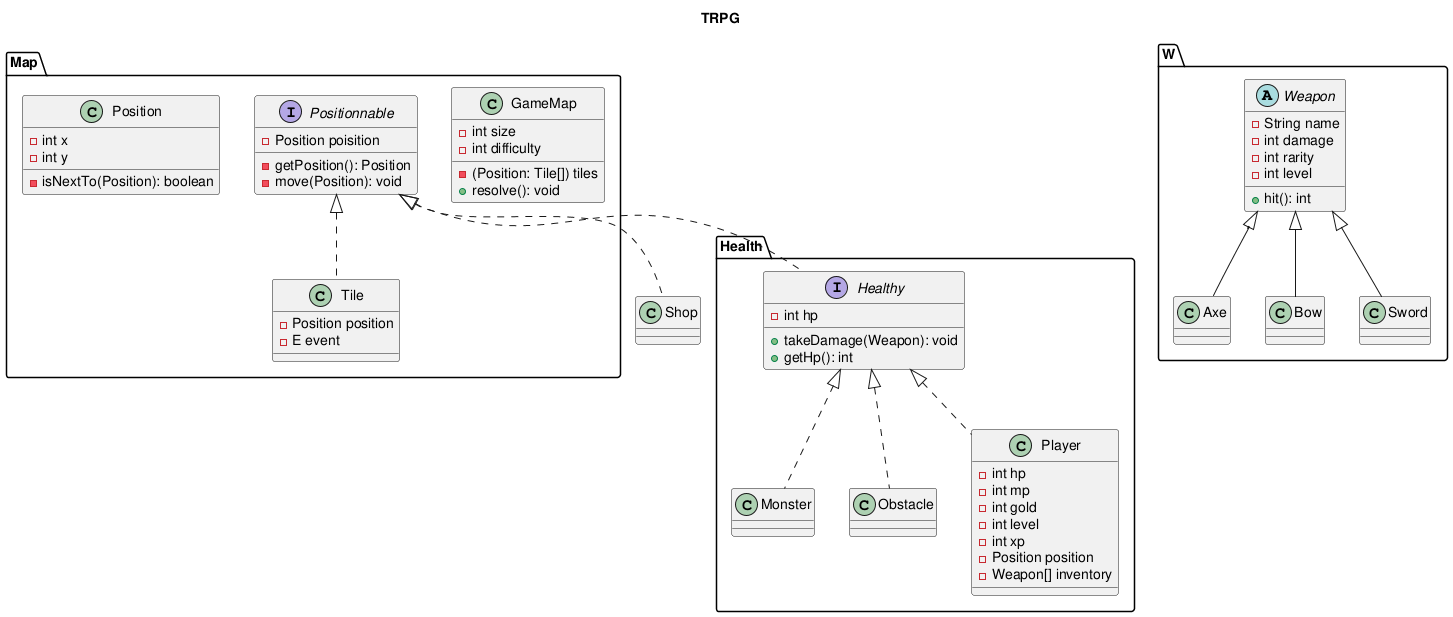
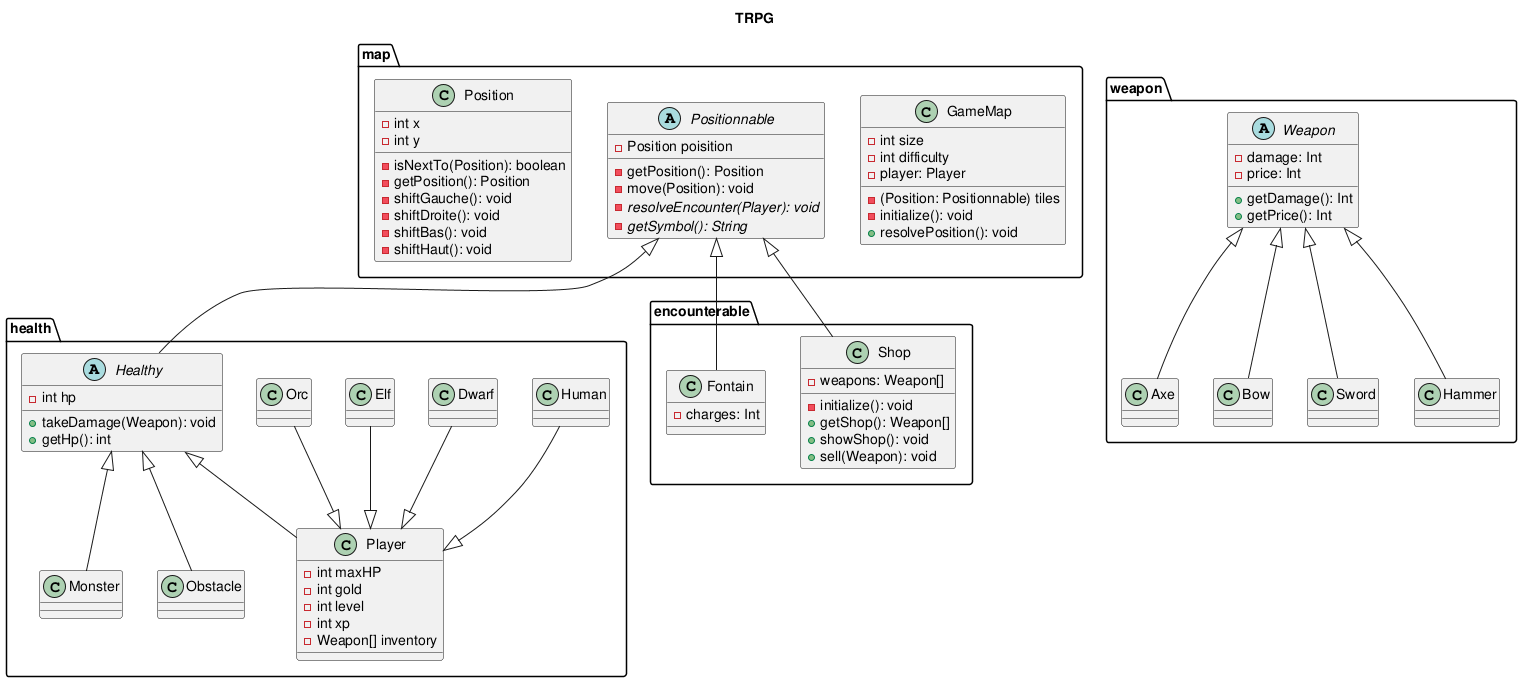
feat: uml fini, readme fini, suppression de Tile non utilisé

diff --git a/src/main/java/trpg/Main.java b/src/main/java/trpg/Main.java
@@ -51,7 +51,7 @@ public class Main {
     while (player.isAlive() && !player.getPosition().equals(new Position(size - 1, size - 1))) {
       Position playerPosition = player.getPosition();
       System.out.println("Où voulez vous aller ?");
-      System.out.println("Gauche: 1, Haut: 2, Droite: 3, Bas: 4, Abandonner: 5");
+      System.out.println("Gauche: 1, Haut: 2, Droite: 3, Bas: 4, Abandonner: 5, Récap personnage: 6");
       int action = Integer.parseInt(scanner.nextLine());
       switch (action) {
         case 1:
@@ -89,6 +89,9 @@ public class Main {
         case 5:
           System.out.println("Abandon ! Fin du jeu");
           return;
+        case 6:
+          player.showInformation();
+          break;
         default:
           System.out.println("Erreur lors du déplacement");
           break;

diff --git a/src/main/java/trpg/Encounterable/Fontain.java b/src/main/java/trpg/Encounterable/Fontain.java
@@ -9,10 +9,13 @@ public class Fontain extends Positionnable {
 
   public Fontain(Position p) {
     super(p);
+    this.charges = 3;
   }
 
   public void resolveEncounter(Player player) {
     player.heal(player.getMissingHP());
+    this.charges--;
+    System.out.println("Vous êtes soigné, il reste " + this.charges + " charges à la fontaine");
   }
 
   public String getSymbol() {

diff --git a/src/main/java/trpg/Encounterable/WeaponStore.java b/src/main/java/trpg/Encounterable/WeaponStore.java
@@ -12,7 +12,6 @@ import trpg.weapon.*;
 public class WeaponStore extends Positionnable {
   private Scanner scanner;
   private ArrayList<Weapon> weapons;
-  private Position position;
 
   public WeaponStore(Position p) {
     super(p);

diff --git a/README.md b/README.md
@@ -1,6 +1,47 @@
 # TRPG
 
-Ce repository simule un RPG textuel
+Ce repository simule un RPG textuel.
+Le joueur est projeté dans une map en 2D et doit sortir sans mourir, sur son chemin se dressera des obstacles, des monstres, mais aussi des évenements neutres comme le magasin ou la fontaine.
+
+## Packages et classes
+
+Le code s'articule autour de 5 packages:
+
+### map
+
+Ce package comprend les classes GameMap, Position et Positionnable.
+- Position définit la position sur la carte et quelques méthodes indispensables.
+- Positionnable est une classe abstraite qui petmet à tous les éléments positionnables sur la carte de l'étendre. Elle oblige également la définition des méthodes liées à l'affichage sur la carte, ainsi que la résolution de l'évenement liée à la rencontre du joueur.
+- GameMap crée la carte du jeu et implémente quelques méthodes essentielles, comme l'affichage ou la resolution du déplacement du joueur.
+
+### healthy
+
+Ce package omprend les classes qui possède des points de vie(hp).
+- `Healthy` est une classe abstraite, qui étend Positionnable (toutes les entitées avec hp sont positionnable sur la carte). Elle comprend également l'attribut hp et quelques méthodes utiles.
+- `Monster` est la classe qui définit les monstres. Elle implémente les méthodes abstraite de `Positionnable` ainsi que celle les permettant (pertde de hp et attaque).
+- `Obstacle` est la classe qui définit les obstacles sur la carte. Elle implément les méthodes abstraites de `Positionnable`...
+- Enfin `Player` est la classe abstraite définissant le joueur. Elle définit ses propriétés (xp, max hp, arme etc), aisni que beaucoup de méthodes permettant la résolution des évenements.
+
+### encounterable
+
+Ce package comprend les classes qui veulent implémenter `Positionnable` mais qui ne sont pas `healthy`.
+- `WeaponStore` est la classe qui définit le marchand dans le jeu. Elle permet de montrer son inventaire et de vendre une arme de son magasin.
+- `Fontain` est la classe qui petmet au joueur de se soigner. Elle ne définit aucunes méthodes hors celles demandées par `Positionnable`.
+
+### weapon
+
+Ce package comprend la classe abstraire `Weapon` ainsi que ses enfants.
+- `Weapon` définit toutes les propriétées communes des armes, comme leur dégats ou leur prix, ainsi que quelques méthodes.
+- `Axe`, `Hammer`, `Bow`, `Sword` sont les quatres types d'armes incluses dans le jeu, actuellement rien ne les différentie (Prochaine amélioration ?)
+
+### race
+
+Ce package comprend les classes enfants de `Player`. Actuellemt rien ne les différentie excepté leurs arme de départ.
+
+### Main et NumberUtil
+
+- `NumberUtil` est une classe `final` proposant une méthode `static` pour générer un nombre entre un min et un max.
+- `Main` inclut toute l'initialisation et la boucle du jeu.
 
 ## Compilation et RUN
 

diff --git a/notes.md b/notes.md
@@ -3,6 +3,7 @@ Monster:
 XP: 10-15 pts
 Atk: 10-20pts
 HP:30-50pts
+gold: 20-30
 
 Player:
 HP:
@@ -15,4 +16,7 @@ XP:
   lvl2: 20pts
   lvl3: 30pts
 Atk: 10-20pts
+
+Weapon:
+  cost:30-40
 
